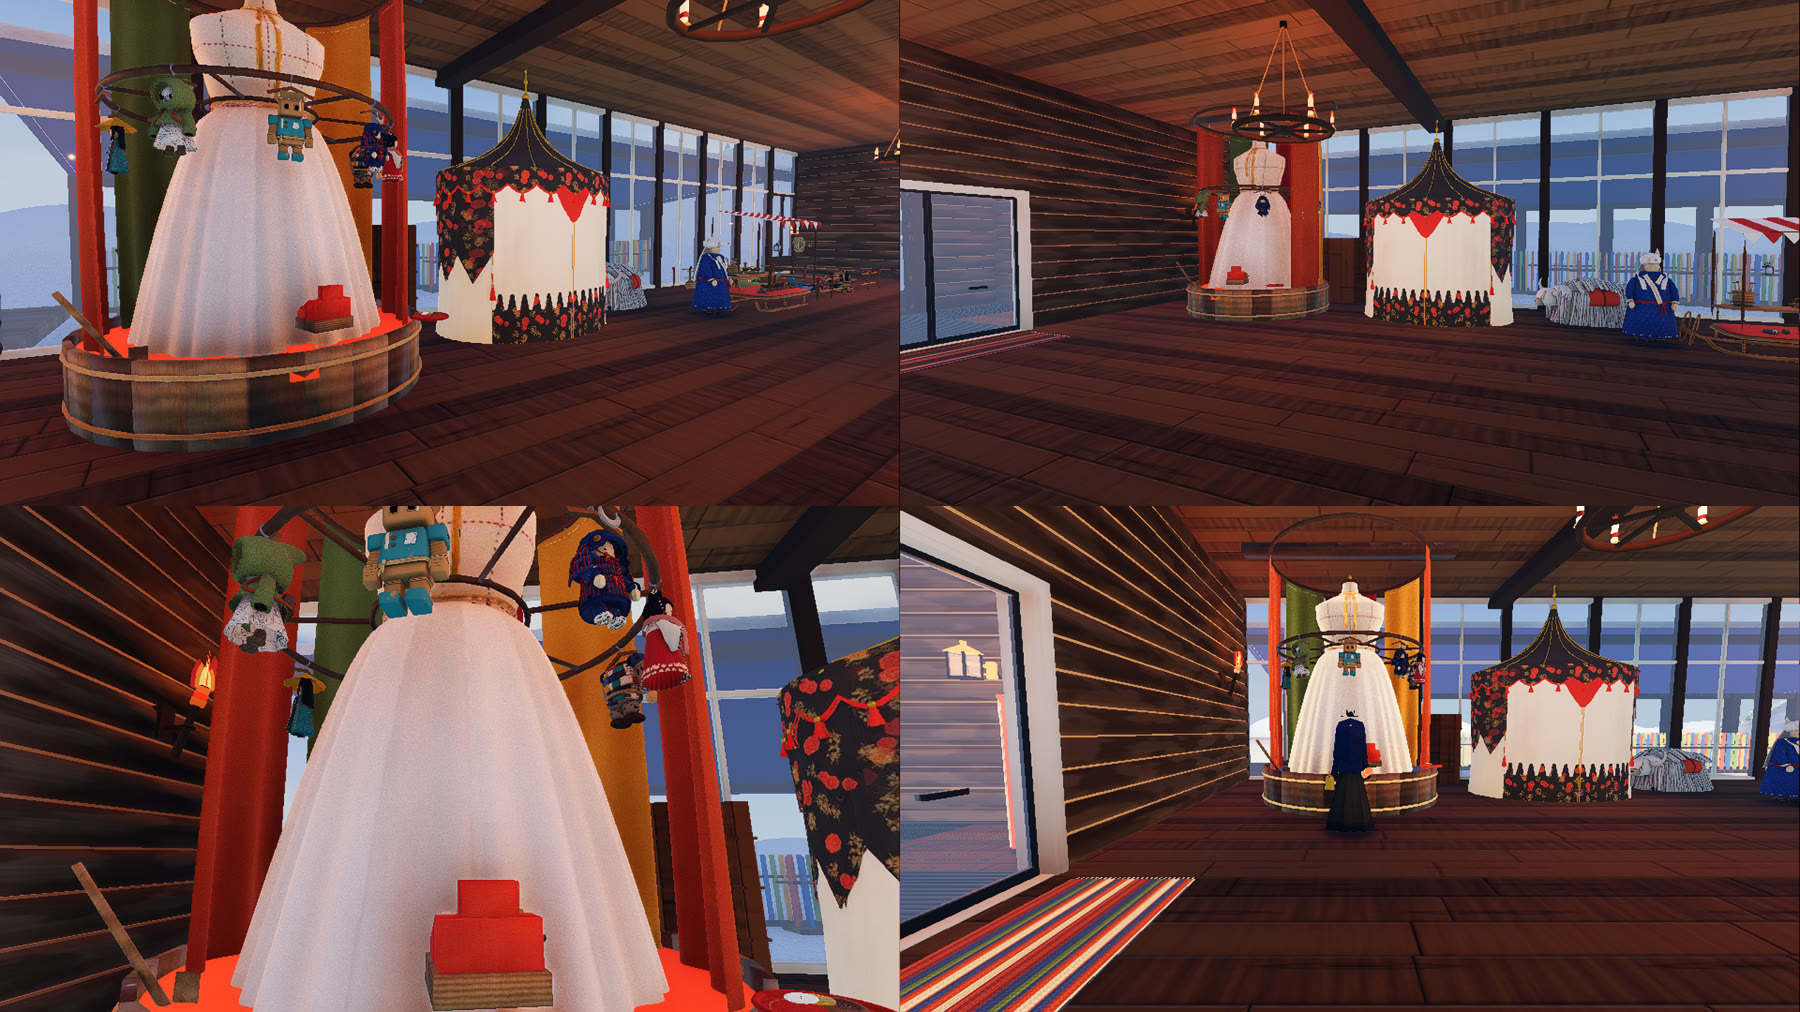
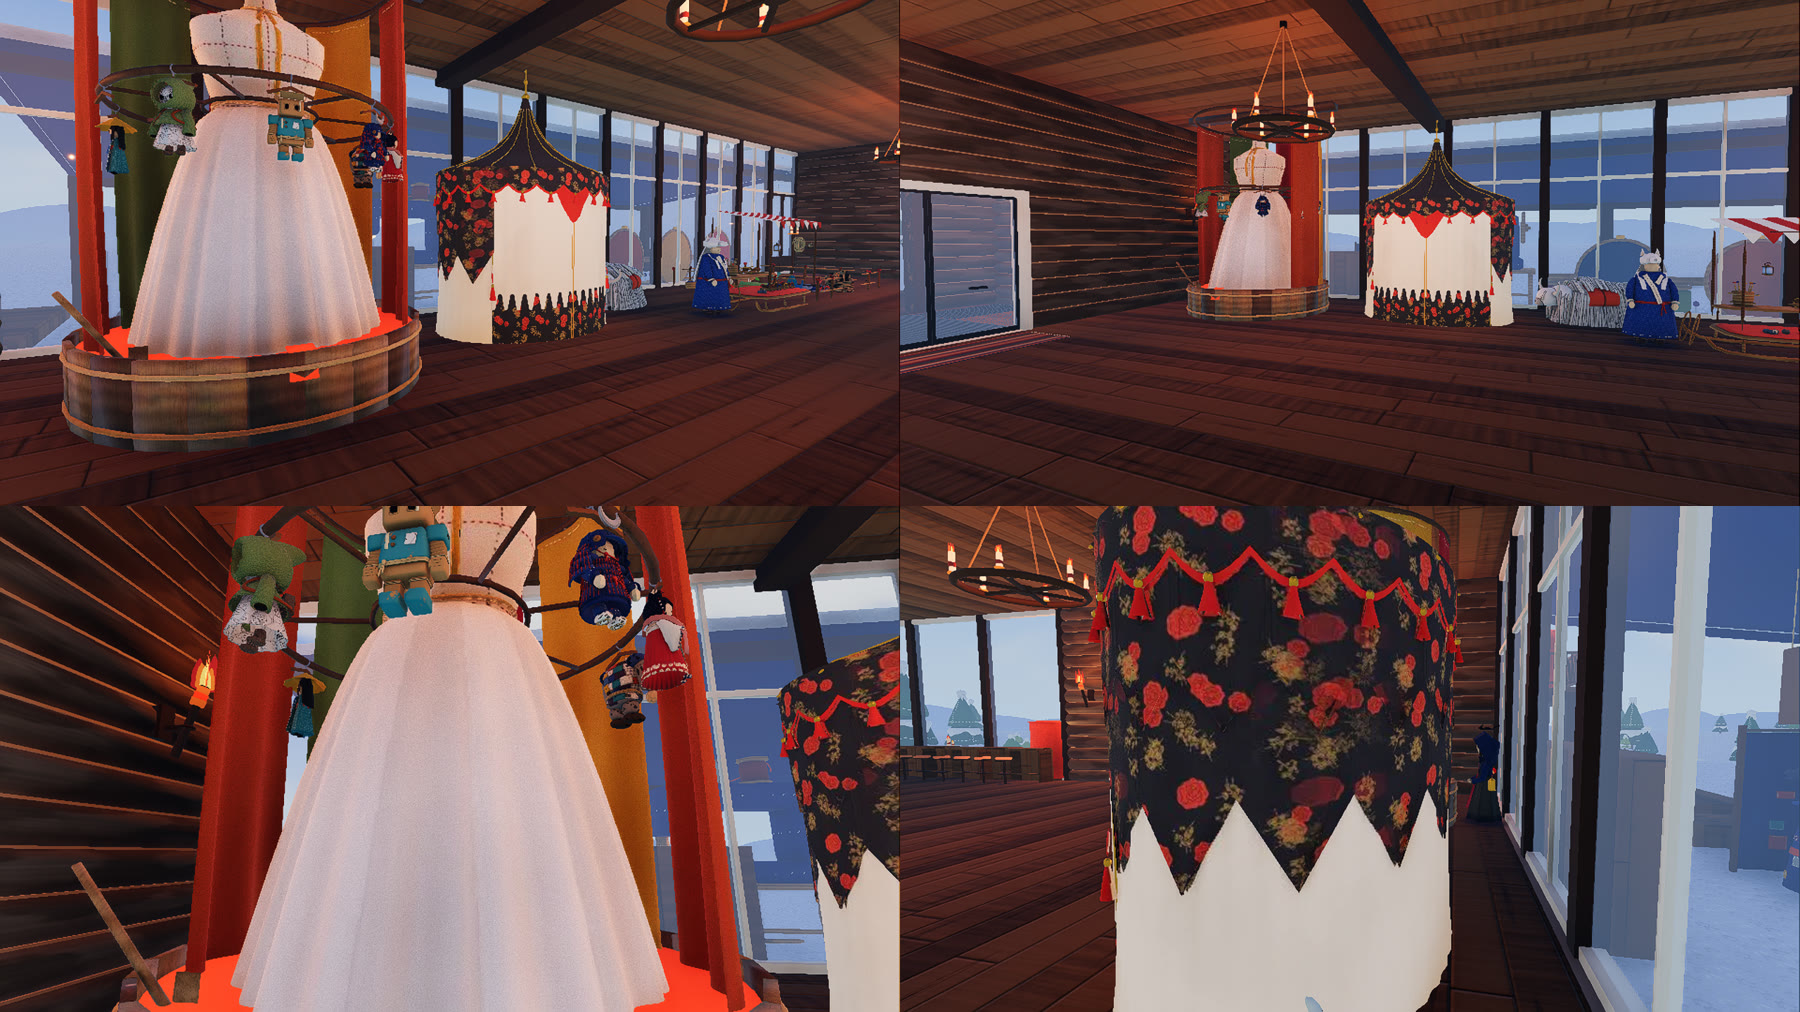
人台の絵を、ソリ屋の作業と合わせて撮り直したものにする

diff --git a/design/dye-wardrobe/README.md b/design/dye-wardrobe/README.md
@@ -16,7 +16,7 @@
 | [00-proposals.jpg](00-proposals.jpg) | はじめの 3 案 |
 | [01-torso-long-cloth.jpg](01-torso-long-cloth.jpg) | 人台に長い布を足した 2 通り（右の E を採用） |
 | [02-white-skirt.jpg](02-white-skirt.jpg) | 裾を白にした E |
-| [03-in-game.jpg](03-in-game.jpg) | ゲームの中で、ミシンと売り子をのけて撮った（左上から入口のマット、食堂、人台の前で染めたあと、入口の案内）。番台と貸出の棚はソリ屋の作業でなくなる |
+| [03-in-game.jpg](03-in-game.jpg) | ゲームの中で、ソリ屋を外へ移す PR #162 と合わせて撮った（左上から入口のマット、食堂、人台の前で染めたあと、山師の前から南）|
 
 ## 作り
 
